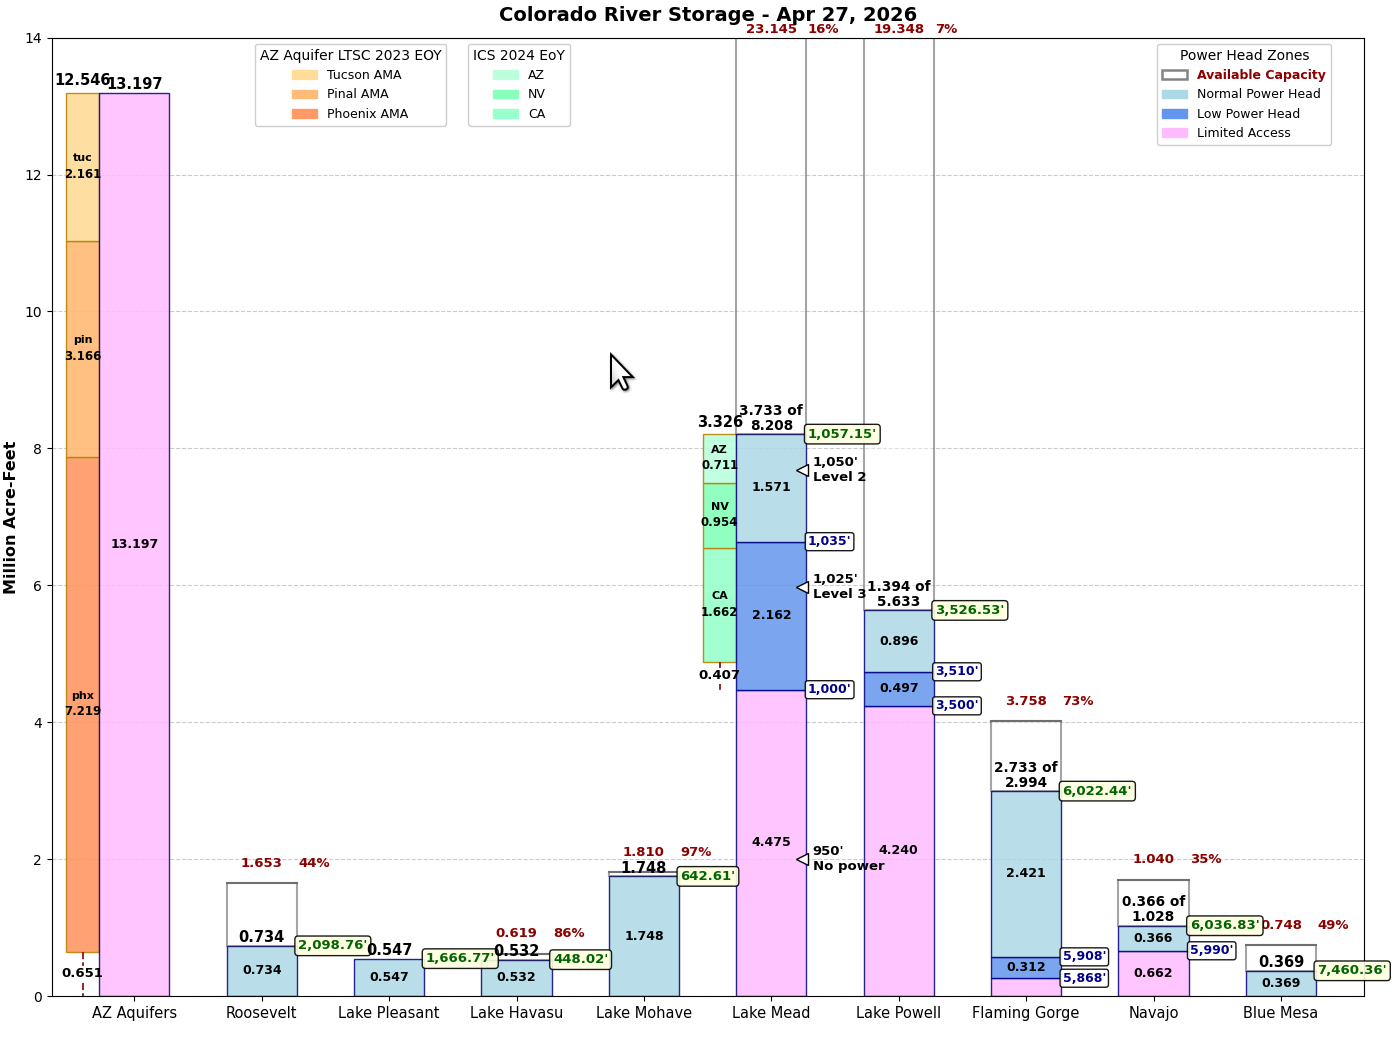
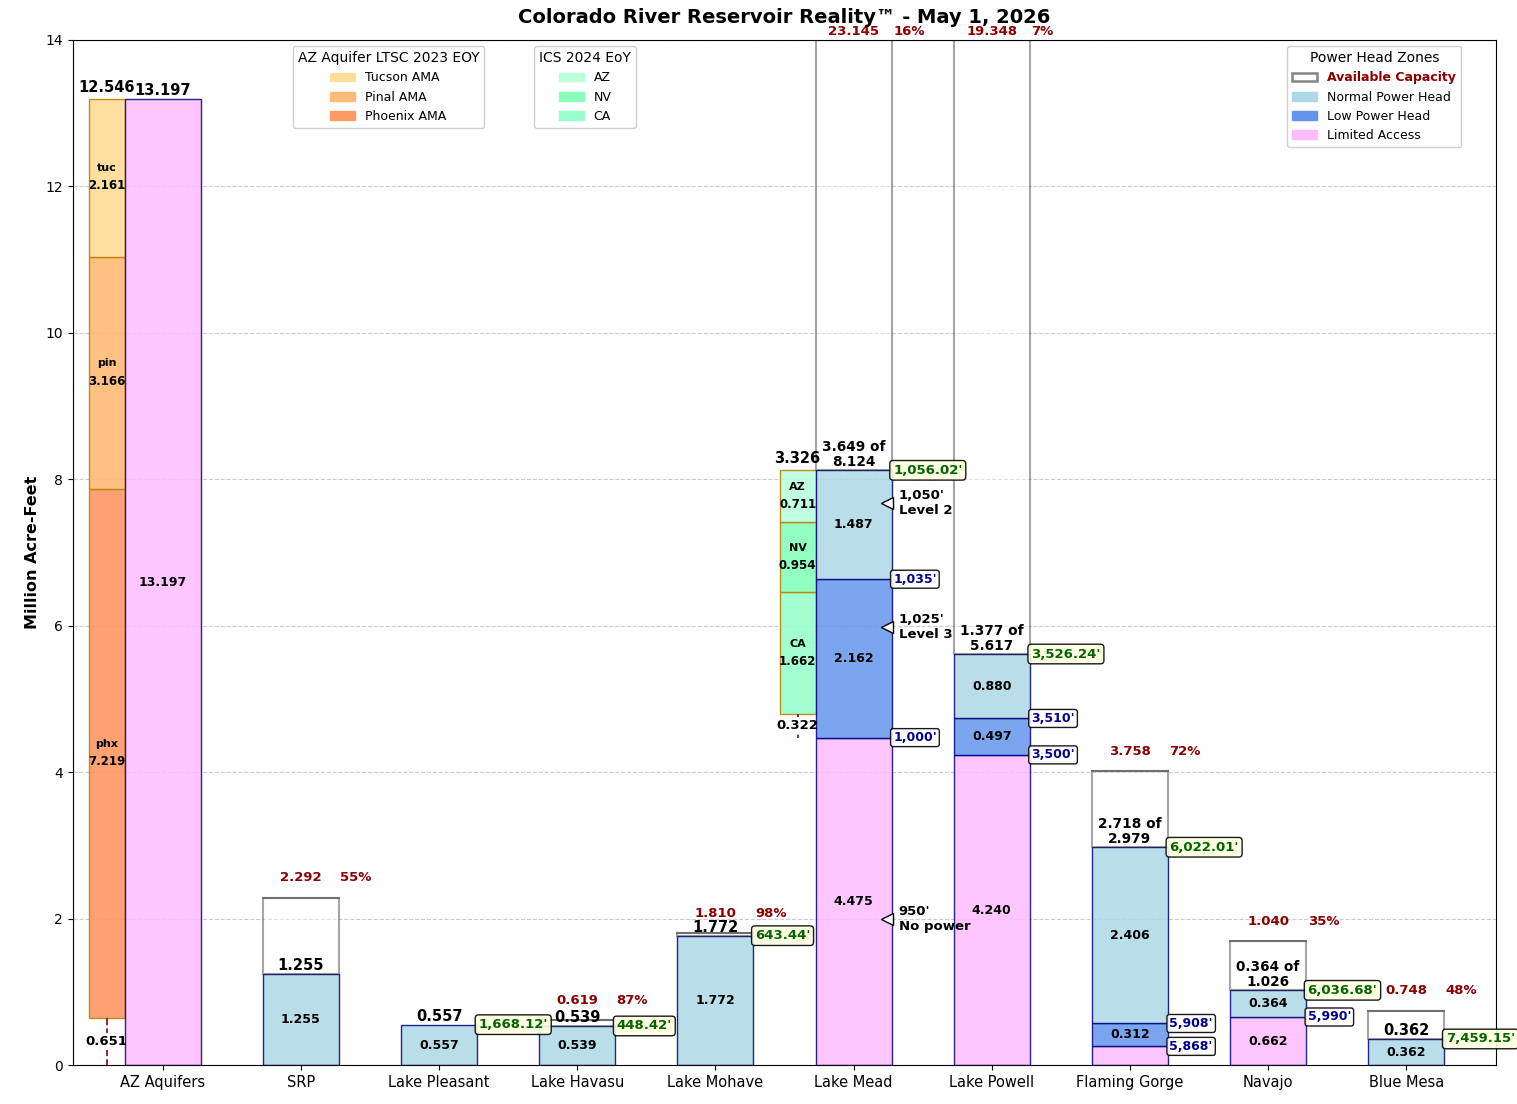
Tweaks to reservoir reality graph before I add time series graph

diff --git a/colorado/graph_reservoirs.py b/colorado/graph_reservoirs.py
@@ -48,6 +48,7 @@ def find_directories_with_file(root_dir: str, filename: str) -> List[str]:
 class ReservoirChart(BarChart):
     def __init__(self, reservoirs: List[Reservoir], start_date=None, current_date=None, end_date=None):
         super().__init__(reservoirs, start_date, current_date, end_date)
+        self.version = 0.3
         self.power_head_zones = [
             ('#ffffff', 'Available Capacity'),
             (Reservoir.high_power_pool_color, 'Normal Power Head'),
@@ -70,7 +71,7 @@ class ReservoirChart(BarChart):
             self.height_inch = height_inch
 
         title = f'Colorado River Reservoir Reality\u2122 - {self.month_to_short_name(self.current_date.month)} ' \
-                f'{self.current_date.day}, {self.current_date.year}'
+                f'{self.current_date.day}, {self.current_date.year}   v{self.version}'
 
         fig = Figure(figsize=(self.width_inch, self.height_inch), dpi=100)
         ax = fig.add_subplot(111)
@@ -197,7 +198,9 @@ class ReservoirChart(BarChart):
                         zones.append((cap - prev, color, name, cap, elev))
                         prev = cap
 
-            top_color = Reservoir.high_power_pool_color if elevations_feet[i] > 0 else Reservoir.non_power_pool_color
+            no_elevation_available = getattr(r, 'no_elevation_available', [])
+
+            top_color = Reservoir.high_power_pool_color if elevations_feet[i] > 0 or no_elevation_available  else Reservoir.non_power_pool_color
             if current_cap_maf > prev:
                 zones.append((current_cap_maf - prev, top_color, 'Above Highest Critical',
                               current_cap_maf, elevations_feet[i]))

diff --git a/graphs/reservoirs_reality.py b/graphs/reservoirs_reality.py
@@ -24,7 +24,8 @@ SOFTWARE.
 from colorado.graph_reservoirs import ReservoirChart
 from chart.chart_frame import ChartFrame, NotebookFrame
 from reservoirs.imperial import Imperial
-from reservoirs.roosevelt import Roosevelt
+# from reservoirs.roosevelt import Roosevelt
+from reservoirs.srp import SRP
 from reservoirs.lake_pleasant import LakePleasant
 from reservoirs.lake_havasu import LakeHavasu
 from reservoirs.lake_mohave import LakeMohave
@@ -48,11 +49,12 @@ class ReservoirsReality(ChartFrame):
         lake_havasu = LakeHavasu(upstream=[lake_mohave])
         imperial = Imperial(upstream=[lake_havasu])
         lake_pleasant = LakePleasant(upstream=[])
-        roosevelt = Roosevelt(upstream=[])
+        # roosevelt = Roosevelt(upstream=[])
+        srp = SRP(upstream=[])
         aquifers = Aquifers(upstream=[])
 
         reservoirs = [
-            imperial, aquifers, roosevelt, lake_pleasant, lake_havasu, lake_mohave,
+            imperial, aquifers, srp, lake_pleasant, lake_havasu, lake_mohave,
             lake_mead, lake_powell, flaming_gorge, navajo, blue_mesa
         ]
 
